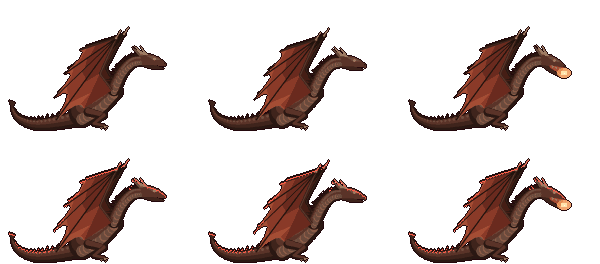
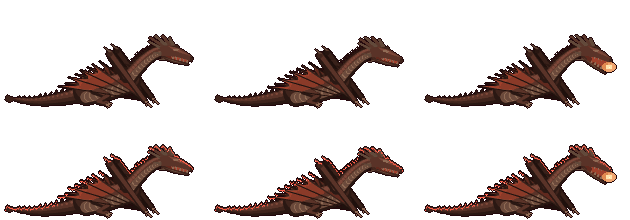
와이번이 엎드려 접은 날개로 앞을 짚고 앉게 하고 머리를 가시 왕관과 이빨이 있는 와이번 얼굴로 바꾼다
Claude-Session: https://claude.ai/code/session_01Q8g6pWdFRXf9kPebAnvFCB

diff --git a/src/game/wyvernPxData.js b/src/game/wyvernPxData.js
@@ -7,8 +7,8 @@ export const WYVERN_PX_SRC = "/assets/game/rpg/effects/hidden-jobs/wyvern/px/";
 export const WYVERN_PX = {
   wy_claw: { w: 112, h: 96, cols: 6, n: 6, cx: 10, cy: 48, r: 88 },   // 용조격 — 굵은 발톱 참격 세 줄(11월 18일 다시 그림, 기준점 = 손, 그림 속 반지름 r)
   wy_hit: { w: 64, h: 64, cols: 8, n: 8, cx: 32, cy: 32 },   // 타격 — 흰 섬광 · 가시 여덟 · 불꽃 고리 · 불씨(11월 18일)
-  wy_wyvern: { w: 244, h: 232, cols: 7, n: 7, cx: 140, cy: 110, rows: 2, mouth: [59, 13] },   // 와이번 옆모습(오른쪽, 1배) — 11월 18일 사용자 자세 참고 그림대로 0 날개 위 · 1 내리침 · 2 날개 아래 · 3 올림 · 4~6 불 뿜기(design/effects/wyvern/pose.py). 줄 0 그대로 · 1 연마 75 붉은 선
-  wy_sit: { w: 200, h: 132, cols: 3, n: 3, cx: 110, cy: 126, rows: 2, mouth: [54, -53] },   // 앉은 와이번(1배, 기준점 = 몸 아래 땅) — 날개를 접고 가슴 · 목을 세운 자세(11월 18일 사용자 참고 그림) · 0 · 1 숨쉬기 · 2 앉아서 불 뿜기
+  wy_wyvern: { w: 244, h: 232, cols: 7, n: 7, cx: 140, cy: 110, rows: 2, mouth: [63, 16] },   // 와이번 옆모습(오른쪽, 1배) — 11월 18일 사용자 자세 참고 그림대로 0 날개 위 · 1 내리침 · 2 날개 아래 · 3 올림 · 4~6 불 뿜기(design/effects/wyvern/pose.py). 줄 0 그대로 · 1 연마 75 붉은 선
+  wy_sit: { w: 210, h: 110, cols: 3, n: 3, cx: 122, cy: 104, rows: 2, mouth: [67, -37] },   // 앉은 와이번(1배, 기준점 = 몸 아래 땅) — 몸을 낮게 엎드려 접은 날개 팔로 앞을 짚고 목을 든 자세(11월 18일 사용자 참고 그림) · 0 · 1 숨쉬기 · 2 앉아서 불 뿜기
   wy_shade: { w: 122, h: 24, cols: 4, n: 4, cx: 61, cy: 12, loop: 1 },   // 땅에 비친 와이번 그림자 — 날갯짓 4칸
   wy_ball: { w: 20, h: 20, cols: 4, n: 4, cx: 12, cy: 10, loop: 1 },   // 와이번 화염탄(오른쪽으로 난다)
   wy_sigil: { w: 96, h: 56, cols: 8, n: 8, cx: 48, cy: 28 },   // 소환 문양 — 0~3 나타남 · 4~7 반복

diff --git a/src/game/wyvernData.js b/src/game/wyvernData.js
@@ -47,10 +47,10 @@ export const WY_CLAW = { name: "용조격", gap: 0.55, reach: 160, arc: (95 / 2)
    hz 나는 높이(화면 px) · spd 따라가는 빠르기 · v 화염탄 빠르기 · back 주인 뒤 거리 · side 옆 거리 — 정한 값 */
 export const WY_CONTRACT = { name: "비룡의 계약", cost: 30, cd: 15, dur: 30, dur50: 40, gap: 1.5, mul: 3.0, mul25: 4.0, seek: 500, sp25: 25, sp50: 50,
   back: [60, 120], far: 650, appear: 0.45, hz: 74, spd: 340, v: 620,
-  mouth: [59, 13],
+  mouth: [63, 16],
   // 앉기(11월 18일 사용자 "움직이지 않을 때는 앉아있는 모습") — 빠르기 speed(px/초) 아래로 wait 초 머물면 time 초에 걸쳐 내려앉고, 움직이면 같은 빠르기로 날아오른다.
   // sitMouth — 앉은 그림의 입 자리(땅 기준 화면 px, wy_sit 시트와 같다). 정한 값
-  sit: { speed: 20, wait: 0.6, time: 0.45, mouth: [54, -53] } };   // 화염탄이 나가는 입 자리(와이번 자리에서 화면 px) — wy_wyvern · wy_sit 시트의 mouth 와 같다(11월 18일 자세 그림)
+  sit: { speed: 20, wait: 0.6, time: 0.45, mouth: [67, -37] } };   // 화염탄이 나가는 입 자리(와이번 자리에서 화면 px) — wy_wyvern · wy_sit 시트의 mouth 와 같다(11월 18일 자세 그림)
 
 /* 용염 포효(직업 레벨 15) — 용혈 15 · 대기 9초 · 앞 350 · 부채꼴 90° · 0.15~0.90초 화염 박동 5번 ×3.0(합 ×15) · 맞히면 용혈 +10(시전당 한 번).
    1부 요약 — 포탈에서 용의 머리가 나와 앞으로 불을 뿜는다. 역린 해방 중 폭 +50%.

diff --git a/design/effects/wyvern/pose.py b/design/effects/wyvern/pose.py
@@ -57,12 +57,12 @@ class Pose:
         return pts, rad
     def limb(s, pts, r0, r1, pal):
         for i in range(len(pts) - 1):
-            (x0, y0), (x1, y1) = pts[i], pts[i + 1]; n = 8
+            (x0, y0), (x1, y1) = pts[i], pts[i + 1]; n = max(8, int(math.hypot(x1 - x0, y1 - y0) * 2))
             for k in range(n + 1):
                 t = k / n; r = r0 + (r1 - r0) * (i + t) / (len(pts) - 1)
                 s.dot(x0 + (x1 - x0) * t, y0 + (y1 - y0) * t, r, pal[0])
         for i in range(len(pts) - 1):
-            (x0, y0), (x1, y1) = pts[i], pts[i + 1]; n = 8
+            (x0, y0), (x1, y1) = pts[i], pts[i + 1]; n = max(8, int(math.hypot(x1 - x0, y1 - y0) * 2))
             for k in range(n + 1):
                 t = k / n; r = r0 + (r1 - r0) * (i + t) / (len(pts) - 1)
                 s.dot(x0 + (x1 - x0) * t, y0 + (y1 - y0) * t - r * 0.3, r * 0.6, pal[2])
@@ -107,25 +107,37 @@ class Pose:
         thumb = (wr[0] + (wr[0] - el[0]) * 0.18 + 2, wr[1] + (wr[1] - el[1]) * 0.18 - 1)
         s.line([wr, thumb], HORN[1], 1.0)
     def head(s, x, y, ang, gape=0.0):
-        """머리 — (x,y) 목 끝, ang 바라보는 각도(라디안, 0 = 오른쪽). 주둥이 · 아래턱 · 뿔 둘 · 눈"""
+        """머리 — (x,y) 목 끝, ang 바라보는 각도(라디안, 0 = 오른쪽). 11월 18일 사용자 "얼굴 와이번처럼"(참고 그림 둘):
+        길고 좁은 주둥이 끝이 아래로 살짝 굽고, 이빨이 드러난 긴 아래턱, 머리 뒤로 왕관처럼 뻗은 가시 다섯, 볼 · 턱 밑 가시, 눈 위 툭 튀어나온 눈두덩"""
         ca, sa = math.cos(ang), math.sin(ang)
         def R(u, v): return (x + u * ca - v * sa, y + u * sa + v * ca)
         g = gape
-        jaw = [R(2, 2), R(20, 4 + g * 5), R(22, 5 + g * 6), R(10, 7 + g * 2), R(0, 6)]
-        s.poly(jaw, BODY[1])
-        s.poly([R(-3, -4), R(6, -7), R(15, -5), R(23, -1), R(24, 2 - g * 1.5), R(12, 3), R(0, 5)], BODY[2])
-        s.poly([R(2, -5), R(10, -6), R(18, -3), R(10, -2)], BODY[3])
-        if g > 0.2:
-            s.poly([R(8, 3), R(22, 2 - g), R(21, 4 + g * 4), R(9, 5)], C("#c0402a"))
-            for k in range(3): s.poly([R(10 + k * 4, 2.5), R(11 + k * 4, 4.5), R(12 + k * 4, 2.5)], HORN[2])
-        # 뿔 — 뒤로 뻗는 큰 뿔 둘
-        s.poly([R(0, -5), R(-14, -11), R(-4, -3)], HORN[0])
-        s.poly([R(1, -6), R(-12, -13), R(-3, -5)], HORN[1])
-        s.poly([R(4, -6), R(-6, -14), R(1, -5)], HORN[2])
-        s.poly([R(-2, 4), R(-9, 7), R(0, 2)], HORN[0])   # 턱 가시
-        s.dot(*R(11, -3), 1.2, EYE); s.dot(*R(11.4, -3.2), 0.5, C("#fff1c8"))
-        s.dot(*R(22, -0.5), 0.6, BONE[0])
-        return R(24, 3 + g * 3)
+        # 머리 뒤 가시 왕관(뒤 → 앞으로 작아진다) — 몸보다 먼저(뒤에) 그린다
+        for k, (u, v, L, up) in enumerate([(-2, -3, 15, -5), (0, -5, 17, -9), (3, -6, 15, -12), (6, -7, 11, -13), (9, -7, 7, -12)]):
+            s.poly([R(u, v + 2), R(u - L, v + up * 0.55), R(u - L + 2, v + up * 0.55 - 1.5), R(u + 3, v)], BONE[2] if k % 2 else HORN[0])
+        # 아래턱 — 길고 가늘다, 벌리면 아래로 내려간다
+        jaw = [R(0, 3), R(14, 4 + g * 6), R(27, 4 + g * 10), R(28, 6 + g * 10), R(14, 8 + g * 5), R(0, 8)]
+        s.poly(jaw, BODY[1]); s.poly([R(2, 6), R(14, 7 + g * 5), R(24, 6 + g * 9)], BELLY[0])
+        if g > 0.1:   # 입 속 · 이빨
+            s.poly([R(6, 2), R(28, 2), R(27, 4 + g * 9), R(12, 5 + g * 5), R(4, 5)], C("#7a2018"))
+            s.poly([R(10, 3), R(26, 3), R(25, 4 + g * 6), R(12, 4 + g * 3)], C("#b8402a"))
+            for k in range(5):
+                u = 9 + k * 3.6
+                s.poly([R(u, 2), R(u + 0.8, 4.2), R(u + 1.6, 2)], HORN[2])                       # 윗니
+                s.poly([R(u + 1.5, 4 + g * (5 + k * 0.9)), R(u + 2.3, 1.6 + g * (5 + k * 0.9)), R(u + 3.1, 4 + g * (5 + k * 0.9))], HORN[2])   # 아랫니
+        # 윗머리 · 주둥이 — 끝이 아래로 굽은 매부리
+        s.poly([R(-4, -3), R(4, -7), R(12, -7), R(22, -4), R(29, -1), R(31, 2), R(29, 4), R(14, 3), R(0, 5)], BODY[2])
+        s.poly([R(4, -6), R(12, -6), R(22, -3), R(28, -1), R(16, -2), R(8, -4)], BODY[3])
+        s.poly([R(6, -6), R(13, -9), R(16, -6)], BODY[1])   # 눈두덩
+        s.poly([R(28, -1), R(31, 2), R(30, 5), R(28, 3)], BODY[1])   # 굽은 코끝
+        s.dot(*R(30, 0.5), 0.5, BONE[0])   # 콧구멍
+        if g <= 0.1:
+            for k in range(4): s.poly([R(12 + k * 4, 3), R(12.8 + k * 4, 5.2), R(13.6 + k * 4, 3)], HORN[2])   # 다문 입에도 엄니가 비친다
+        # 볼 가시 · 턱 밑 가시
+        s.poly([R(-1, 2), R(-10, 3), R(-1, 5)], HORN[0]); s.poly([R(2, 7), R(-6, 11), R(4, 8)], HORN[0])
+        # 눈 — 가늘고 사나운 눈매
+        s.poly([R(10, -4), R(15, -4.6), R(14, -3), R(10, -3)], EYE); s.dot(*R(12.5, -3.8), 0.5, C("#fff1c8"))
+        return R(29, 3 + g * 5)
     def leg(s, hip, knee, ank, foot, dirx=1):
         s.limb([hip, knee], 4.5, 3.2, BODY); s.limb([knee, ank, foot], 2.6, 1.6, BODY)
         s.claws(foot[0], foot[1], dirx)
@@ -165,23 +177,30 @@ def fly_pose(f, gape=0.0):
     s.wing(W((0, 0)), W(wg["el"]), W(wg["wr"]), [W(t) for t in wg["tips"]], W(wg["root"]), MEM, BONE)
     return s.done(), (round(mouth[0]), round(mouth[1]))
 
-# ── 앉기 — 참고 그림 셋째(날개를 접고 가슴을 세워 앉음). 바위는 그리지 않고 땅에 웅크린다(내린 자리마다 바위가 생기면 어색해서) ──
-# 기준점 = 몸 아래 땅. 뒷다리를 접어 깔고 가슴 · 목을 세운 S 자. 접은 날개는 손목이 머리 뒤 위로 솟고 손가락 막이 몸 뒤로 땅까지 드리운다. 꼬리는 땅을 따라 뒤로 말린다.
-SIT_W, SIT_H, SIT_OX, SIT_OY = 200, 132, 110, 126
+# ── 앉기 — 11월 18일 사용자 참고 그림(엎드린 와이번 둘)대로 다시: 몸을 땅에 낮게 붙이고, 접은 날개 팔로 앞을 짚는다 ──
+# 팔꿈치가 몸 위로 가장 높이 솟고, 손목은 앞쪽 땅을 짚어 발톱을 세운다. 손가락 · 막은 몸 옆을 따라 뒤로 접혀 눕는다.
+# 목은 앞 위로 들고 머리는 앞을 노려본다(입을 살짝 벌림). 뒷다리는 몸 아래 접고 꼬리는 땅을 따라 뒤로 눕는다. 기준점 = 몸 아래 땅.
+SIT_W, SIT_H, SIT_OX, SIT_OY = 210, 110, 122, 104
 def sit_pose(breath=0, gape=0.0):
     s = Pose(SIT_W, SIT_H, SIT_OX, SIT_OY)
     b = breath
-    # 먼 날개(접힘) — 손가락이 위로 모인 좁은 삼각
-    s.wing((6, -40 + b), (-4, -58 + b), (14, -92 + b), [(-24, -80 + b), (-42, -58 + b), (-52, -34 + b), (-50, -14)], (-26, -20 + b), MEM, BONE, 0.62)
-    tail = [(-26, -10), (-52, -4), (-76, -2), (-92, -8), (-98, -18)]
+    def fold(o=(0, 0), dark=1.0):   # 접은 날개 — 어깨 · 팔꿈치(위로 솟음) · 손목(앞 땅) · 손가락 끝(몸 옆을 따라 뒤로)
+        P = lambda x, y, by=1: (x + o[0], y + o[1] + b * by)
+        sh, el, wr = P(4, -26), P(-12, -50), P(22, -4, 0)
+        s.wing(sh, el, wr, [P(-30, -40), P(-42, -34), P(-54, -27), P(-64, -18, 0.5)], P(-30, -14), MEM, BONE, dark)
+        pal = [dk(c, dark) for c in BODY]
+        s.limb([sh, el], 5, 3.6, pal); s.limb([el, wr], 3.6, 2.6, pal)     # 접은 팔은 굵게 — 앞다리처럼 땅을 짚는다
+        s.dot(el[0], el[1], 2.6, pal[1]); s.poly([(el[0] - 1, el[1] - 2), (el[0] - 7, el[1] - 8), (el[0] + 2, el[1] - 2)], HORN[0])   # 팔꿈치 가시
+        s.claws(wr[0] + 1, wr[1] + 1, 1, 3, 5)
+    fold((7, -3), 0.62)                                                     # 먼 날개
+    tail = [(-34, -12), (-60, -6), (-86, -3), (-108, -5)]
     s.tube(tail, 8, 1.2, BODY, spikes=4)
-    t = tail[-1]; s.poly([(t[0], t[1] + 1), (t[0] - 3, t[1] - 8), (t[0] + 3, t[1] - 6)], BODY[1])
-    s.leg((-18, -16), (-6, -14), (-18, -4), (-10, -1), 1)   # 먼 뒷다리
-    s.tube([(-28, -14 + b * 0.5), (-12, -22 + b), (4, -36 + b)], 13, 9, BODY, belly=BELLY, spikes=3)
-    neck = [(4, -38 + b), (12, -54 + b), (22, -64 + b), (32, -66 + b)]
-    s.tube(neck, 7, 4.5, BODY, belly=BELLY, spikes=3)
-    mouth = s.head(neck[-1][0] + 1, neck[-1][1], math.radians(10 + gape * 8), gape)
-    s.leg((-22, -14), (-6, -10), (-16, -2), (-6, 0), 1)   # 가까운 뒷다리 — 무릎을 앞으로 접어 깔고 앉는다
-    # 가까운 날개(접힘) — 팔이 몸 옆으로 내려와 손목이 땅을 짚고, 손가락은 몸 뒤 위로 접혀 솟는다
-    s.wing((2, -36 + b), (-10, -52 + b), (6, -88 + b), [(-30, -76 + b), (-46, -52 + b), (-56, -28 + b), (-54, -6)], (-26, -18 + b), MEM, BONE)
+    t = tail[-1]; s.poly([(t[0] + 2, t[1]), (t[0] - 7, t[1] - 4), (t[0] - 9, t[1] + 1), (t[0] - 5, t[1] + 3)], BODY[1])
+    s.leg((-24, -14), (-12, -10), (-22, -3), (-14, -1), 1)                  # 먼 뒷다리
+    s.tube([(-36, -14 + b * 0.4), (-14, -18 + b), (8, -24 + b)], 13, 11, BODY, belly=BELLY, spikes=3)
+    neck = [(6, -26 + b), (18, -40 + b), (30, -50 + b), (40, -54 + b)]
+    s.tube(neck, 8, 5, BODY, belly=BELLY, spikes=3)
+    mouth = s.head(neck[-1][0] + 1, neck[-1][1] + 1, math.radians(12 + gape * 4), 0.25 + gape * 0.75)
+    s.leg((-28, -14), (-14, -8), (-24, -2), (-16, 0), 1)                    # 가까운 뒷다리 — 몸 아래 접어 깔았다
+    fold()                                                                 # 가까운 날개
     return s.done(), (round(mouth[0]), round(mouth[1]))
